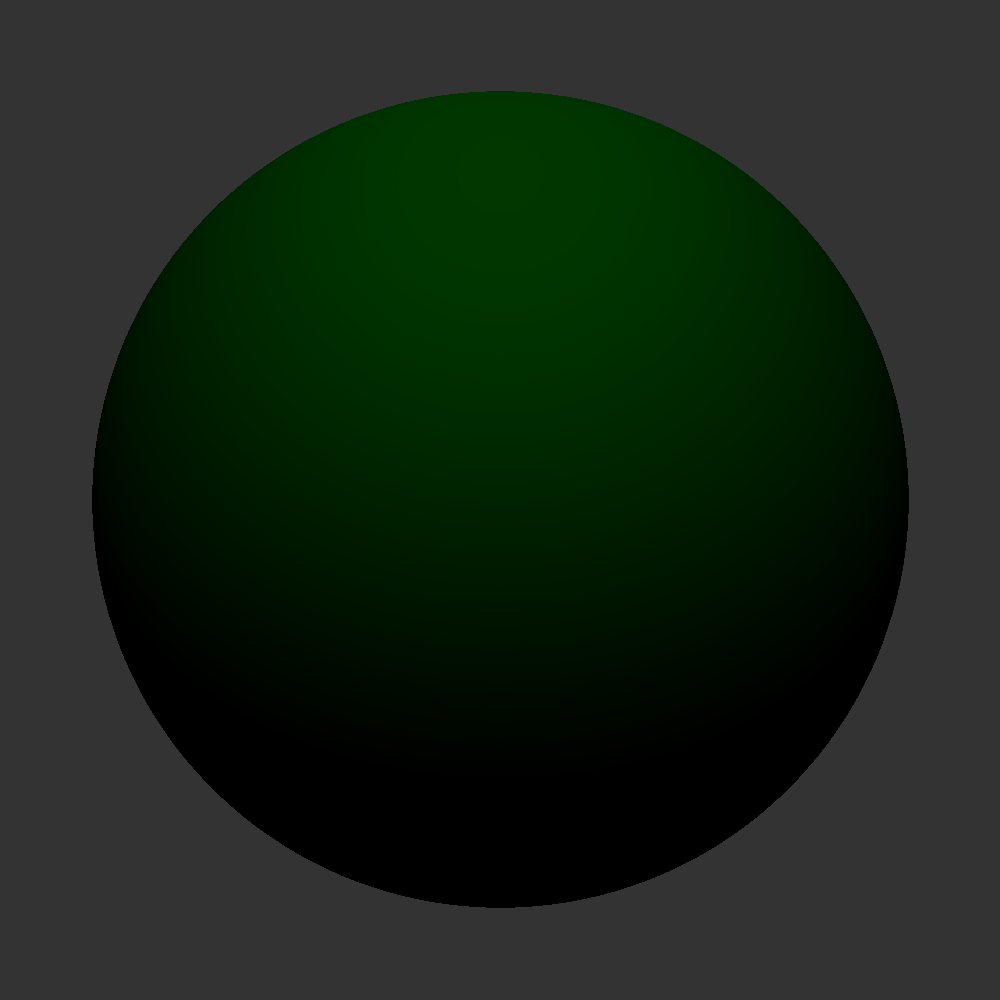
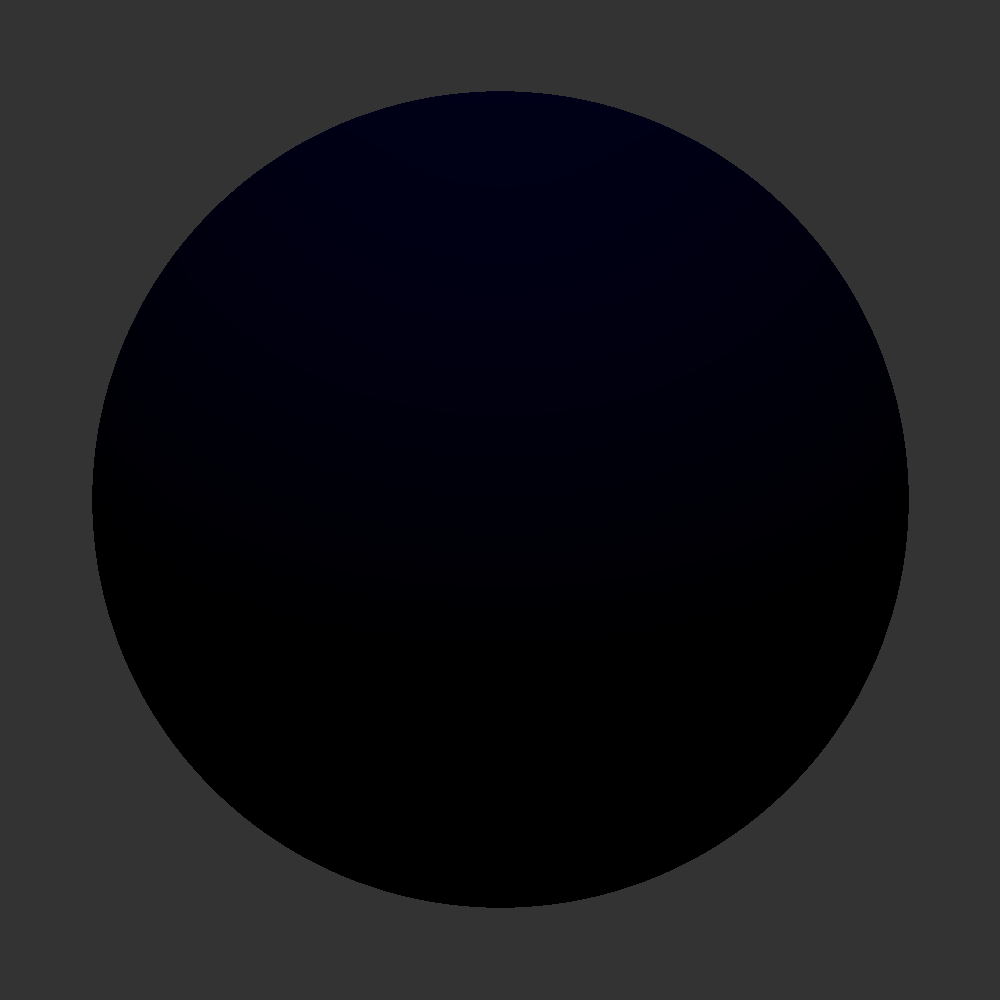
Lambertian shader broken

Changed region(s): [[0.124, 0.093, 0.868, 0.589]]

diff --git a/src/main.rs b/src/main.rs
@@ -57,13 +57,13 @@ fn main() {
 
     let mut sc = SceneContainer::SceneContainer::new();
     let s = Sph::new(Vec3::new(0.0, 0.0, -5.0), 1.0);
-    let l = PointLight::new(Vec3::new(0.0, 5.0, 0.0), Vec3::new(1.0, 1.0, 1.0));
+    let l = PointLight::new(Vec3::new(0.0, 10.0, 0.0), Vec3::new(1.0, 1.0, 1.0));
     sc.addShape(Shape::Shape::Sphere(s));
     sc.addLight(Light::Light::PointLight(l));
     let cam = PerspectiveCamera::new(Vec3::new(0.0, 0.0, 0.0), 0.5 as f32, 1.0 as f32, fb.width as i32, fb.height as i32, coord);
     let start = std::time::Instant::now();
 
-    let lamb: Lambertian = Lambertian::new(Vec3::new(0.0, 1.0, 0.0));
+    let lamb: Lambertian = Lambertian::new(Vec3::new(0.0, 0.0, 1.0));
 
     let parser = JsonParser::JsonParser::new("SceneData/oneTriangle.json".to_string());
     parser.Parse(&mut sc);
